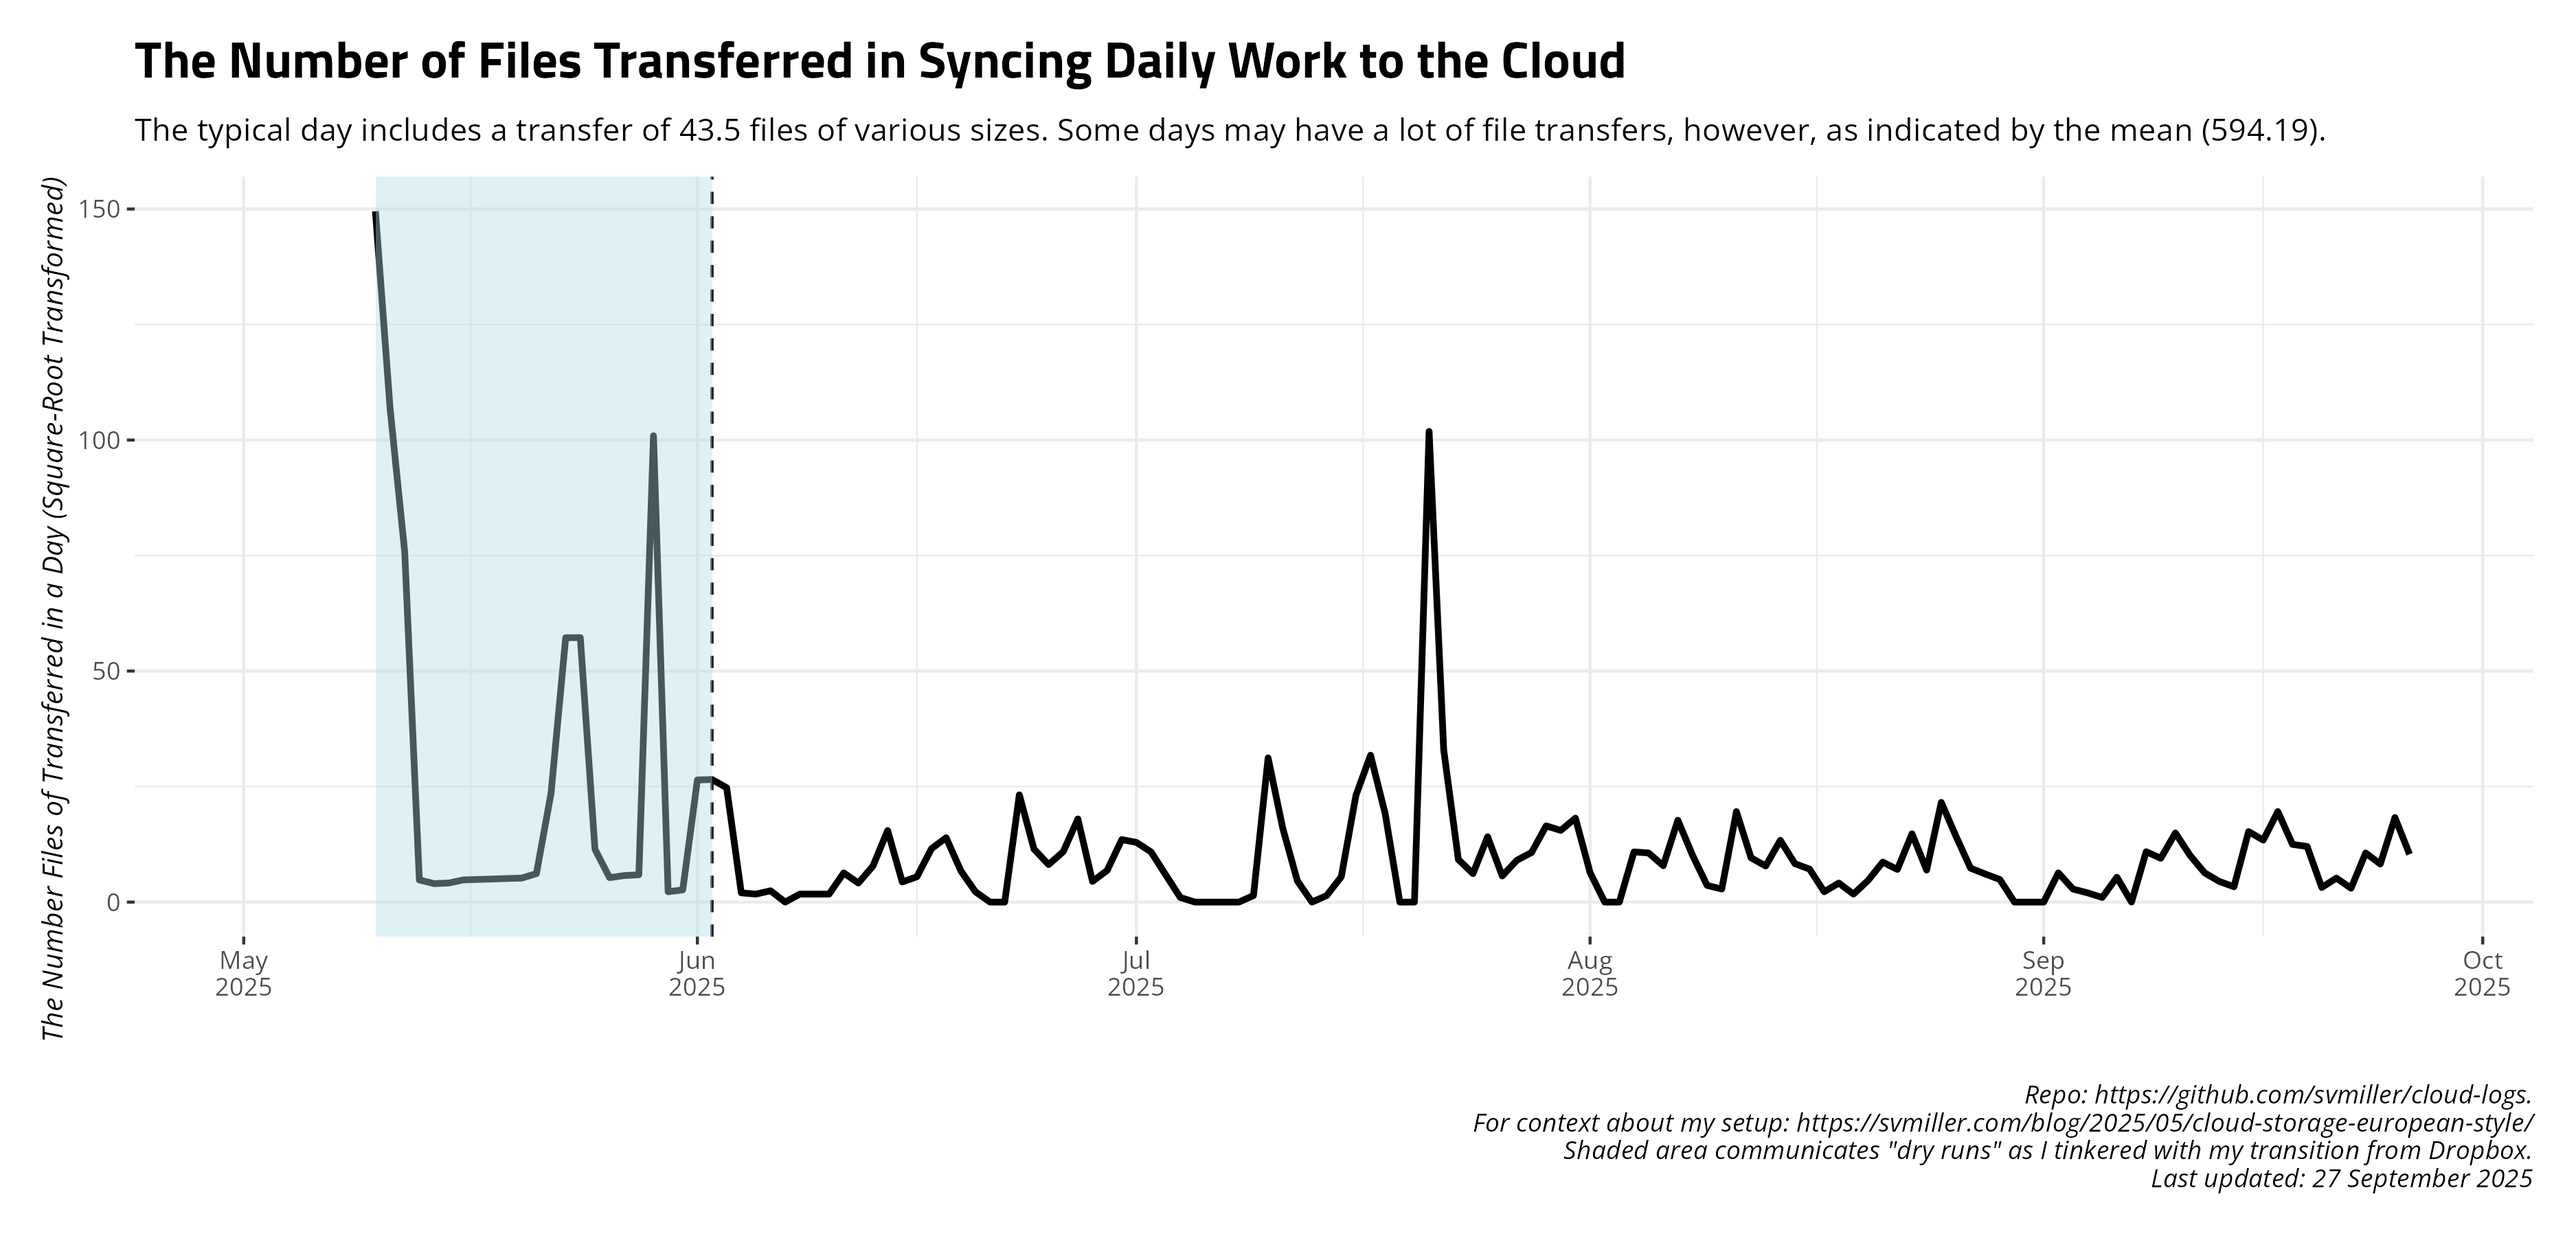
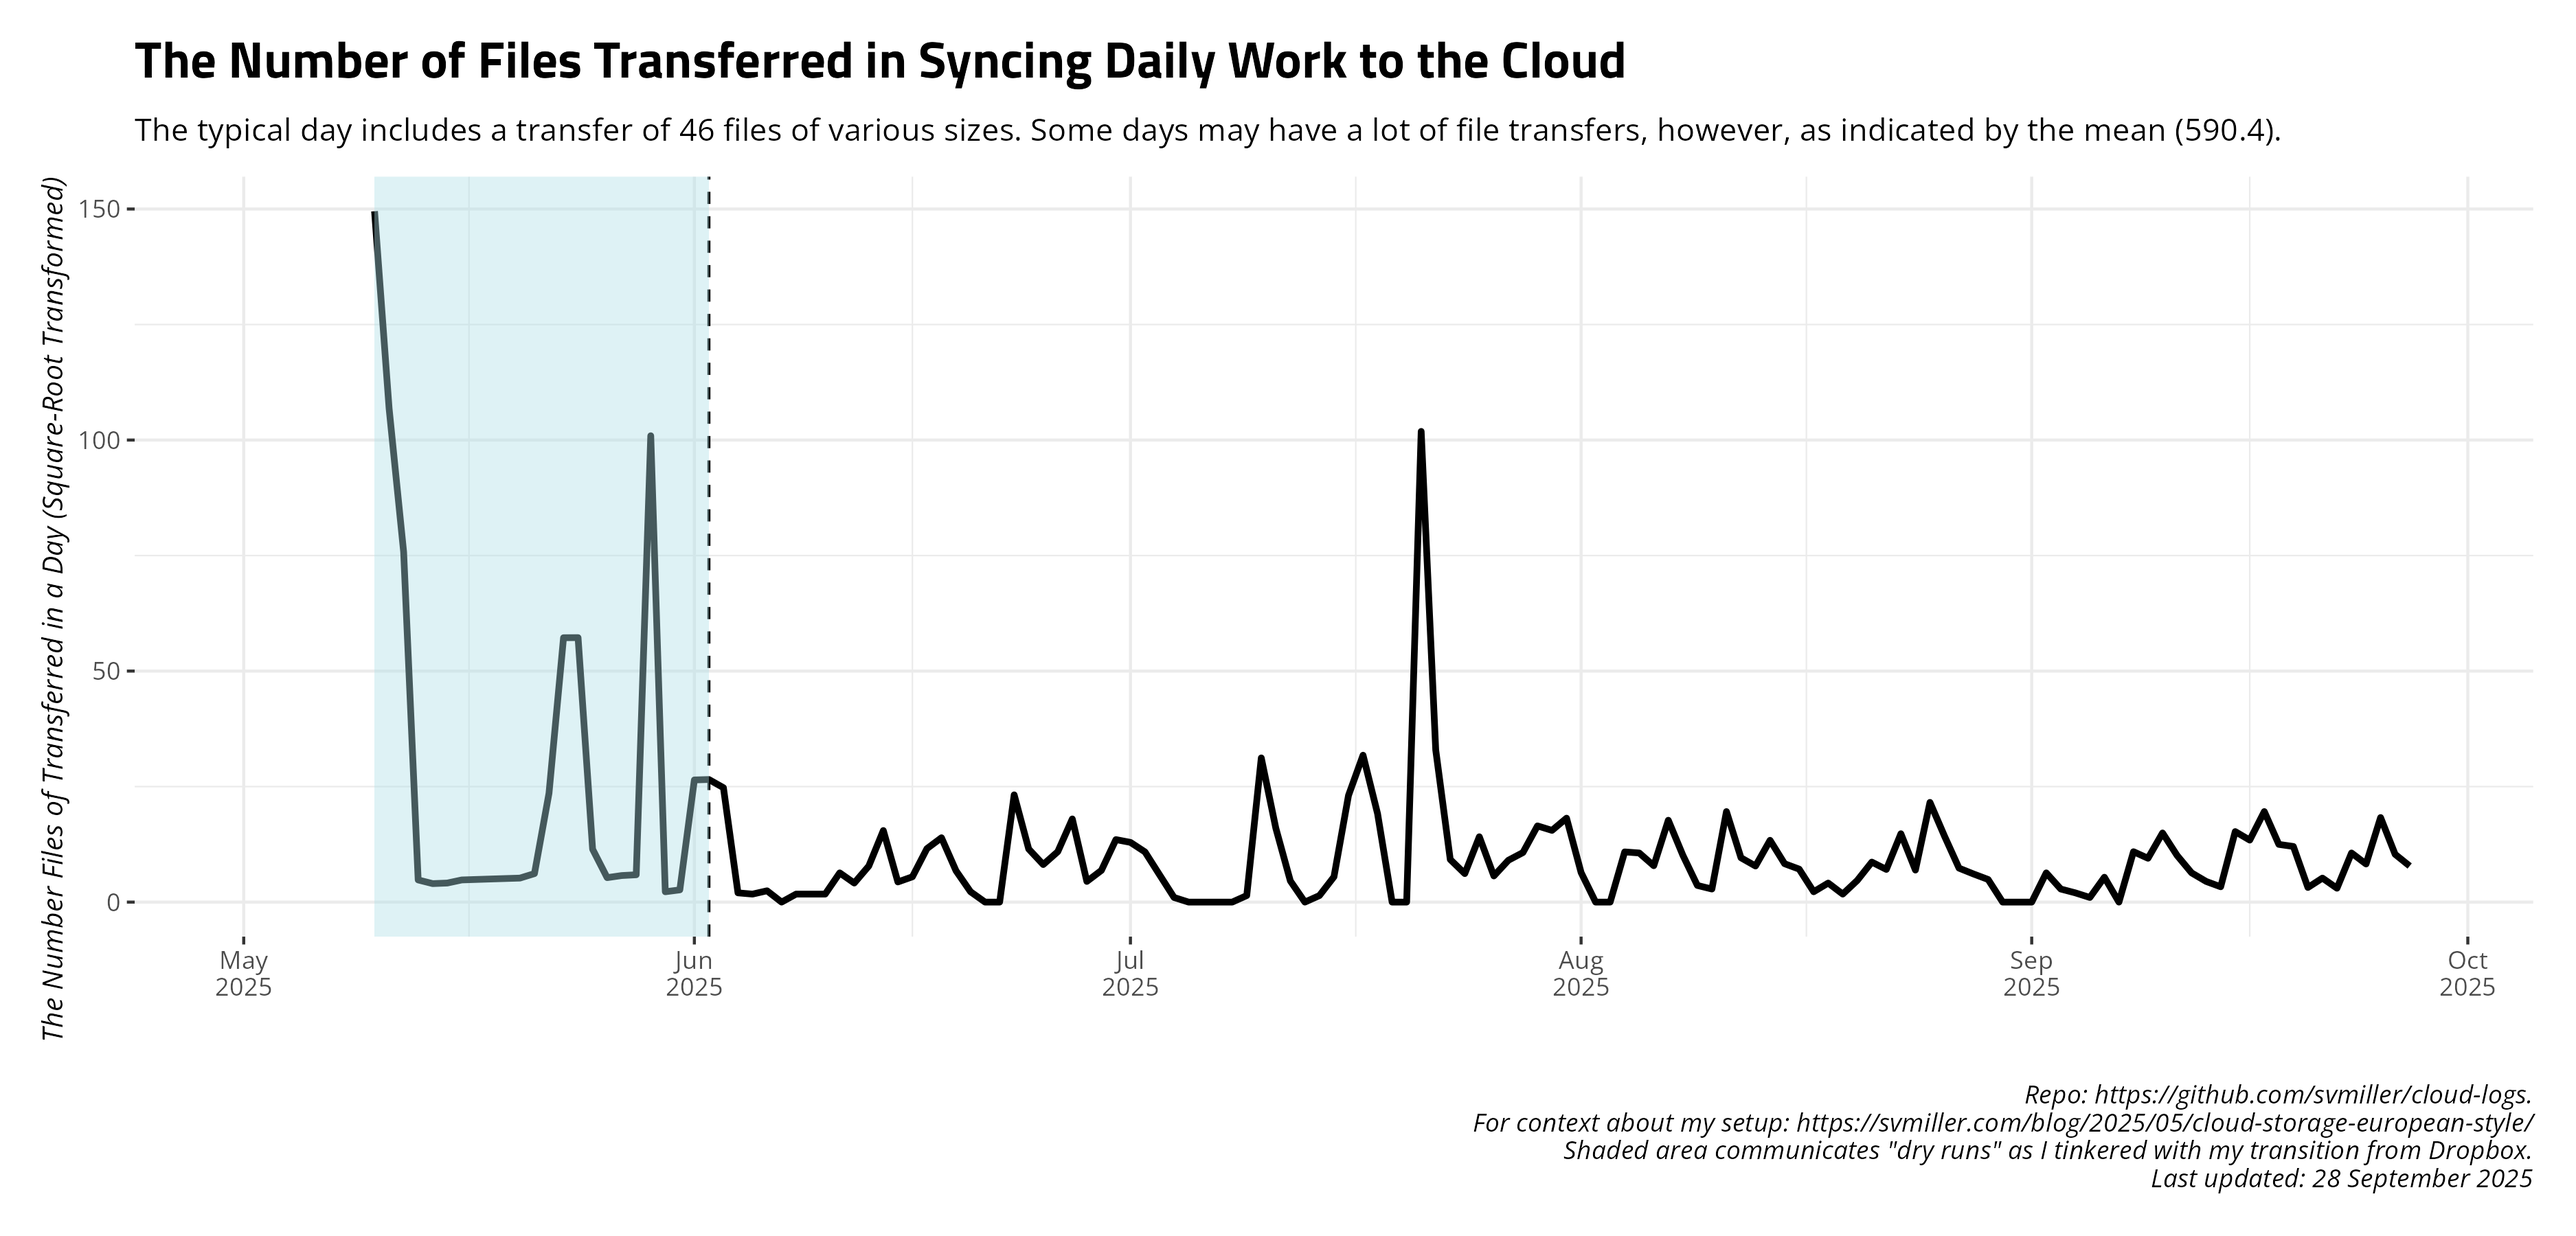
Date: 2025-09-28 09:00:13. Hi mom!

diff --git a/README.md b/README.md
@@ -27,17 +27,17 @@ and uploads to Github.
     #> # A tibble: 14 × 4
     #>    date       ftransfer stransfer   elapsed
     #>    <date>         <dbl> <chr>       <chr>  
-    #>  1 2025-09-13        20 351.011 KiB 4m47.3s
-    #>  2 2025-09-14        11 124.986 KiB 5m19.2s
-    #>  3 2025-09-15       233 116.284 MiB 5m17.2s
-    #>  4 2025-09-16       180 17.775 MiB  4m38.3s
-    #>  5 2025-09-17       384 10.375 MiB  4m40.4s
-    #>  6 2025-09-18       156 2.882 MiB   4m45.7s
-    #>  7 2025-09-19       145 121.392 MiB 4m37.2s
-    #>  8 2025-09-20        10 13.771 KiB  4m44.8s
-    #>  9 2025-09-21        27 314.652 KiB 5m1.5s 
-    #> 10 2025-09-22         9 8.336 MiB   5m26.1s
-    #> 11 2025-09-23       113 1.845 MiB   4m10.1s
-    #> 12 2025-09-24        68 3.056 MiB   5m9.6s 
-    #> 13 2025-09-25       335 16.829 MiB  5m20.3s
-    #> 14 2025-09-26       107 2.871 MiB   5m2.8s
+    #>  1 2025-09-14        11 124.986 KiB 5m19.2s
+    #>  2 2025-09-15       233 116.284 MiB 5m17.2s
+    #>  3 2025-09-16       180 17.775 MiB  4m38.3s
+    #>  4 2025-09-17       384 10.375 MiB  4m40.4s
+    #>  5 2025-09-18       156 2.882 MiB   4m45.7s
+    #>  6 2025-09-19       145 121.392 MiB 4m37.2s
+    #>  7 2025-09-20        10 13.771 KiB  4m44.8s
+    #>  8 2025-09-21        27 314.652 KiB 5m1.5s 
+    #>  9 2025-09-22         9 8.336 MiB   5m26.1s
+    #> 10 2025-09-23       113 1.845 MiB   4m10.1s
+    #> 11 2025-09-24        68 3.056 MiB   5m9.6s 
+    #> 12 2025-09-25       335 16.829 MiB  5m20.3s
+    #> 13 2025-09-26       107 2.871 MiB   5m2.8s 
+    #> 14 2025-09-27        61 1.133 MiB   5m5.0s
